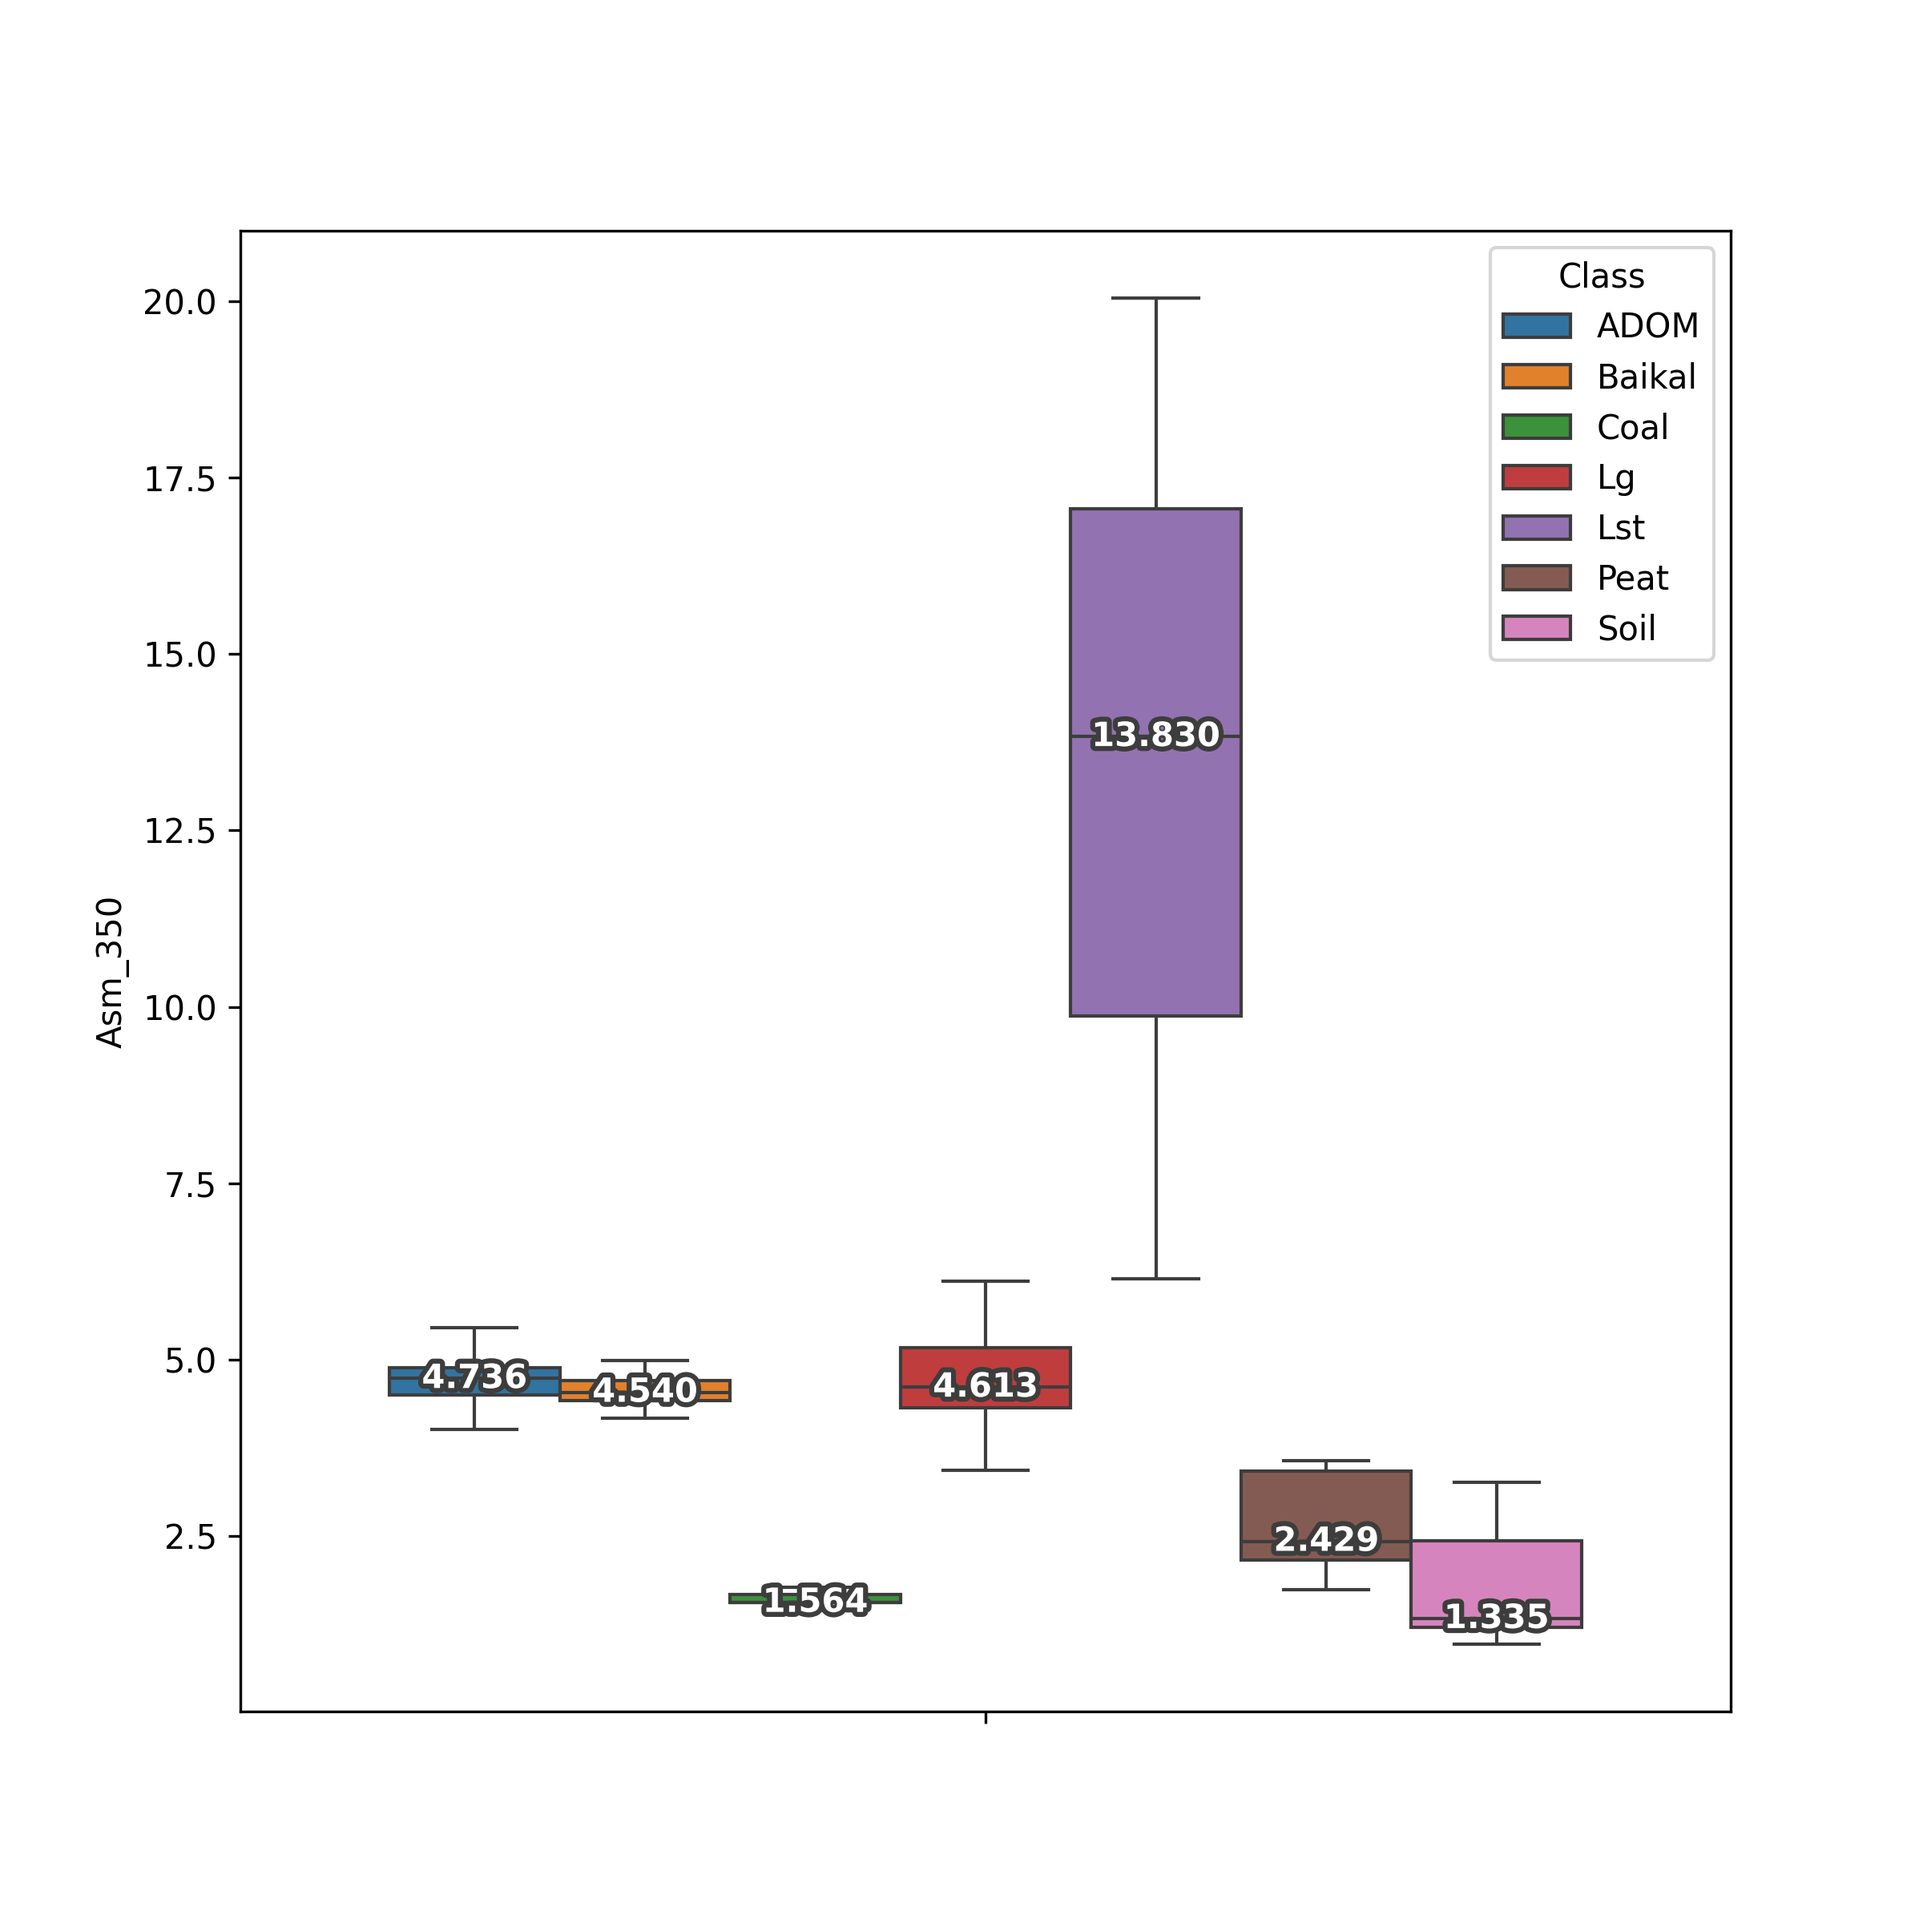
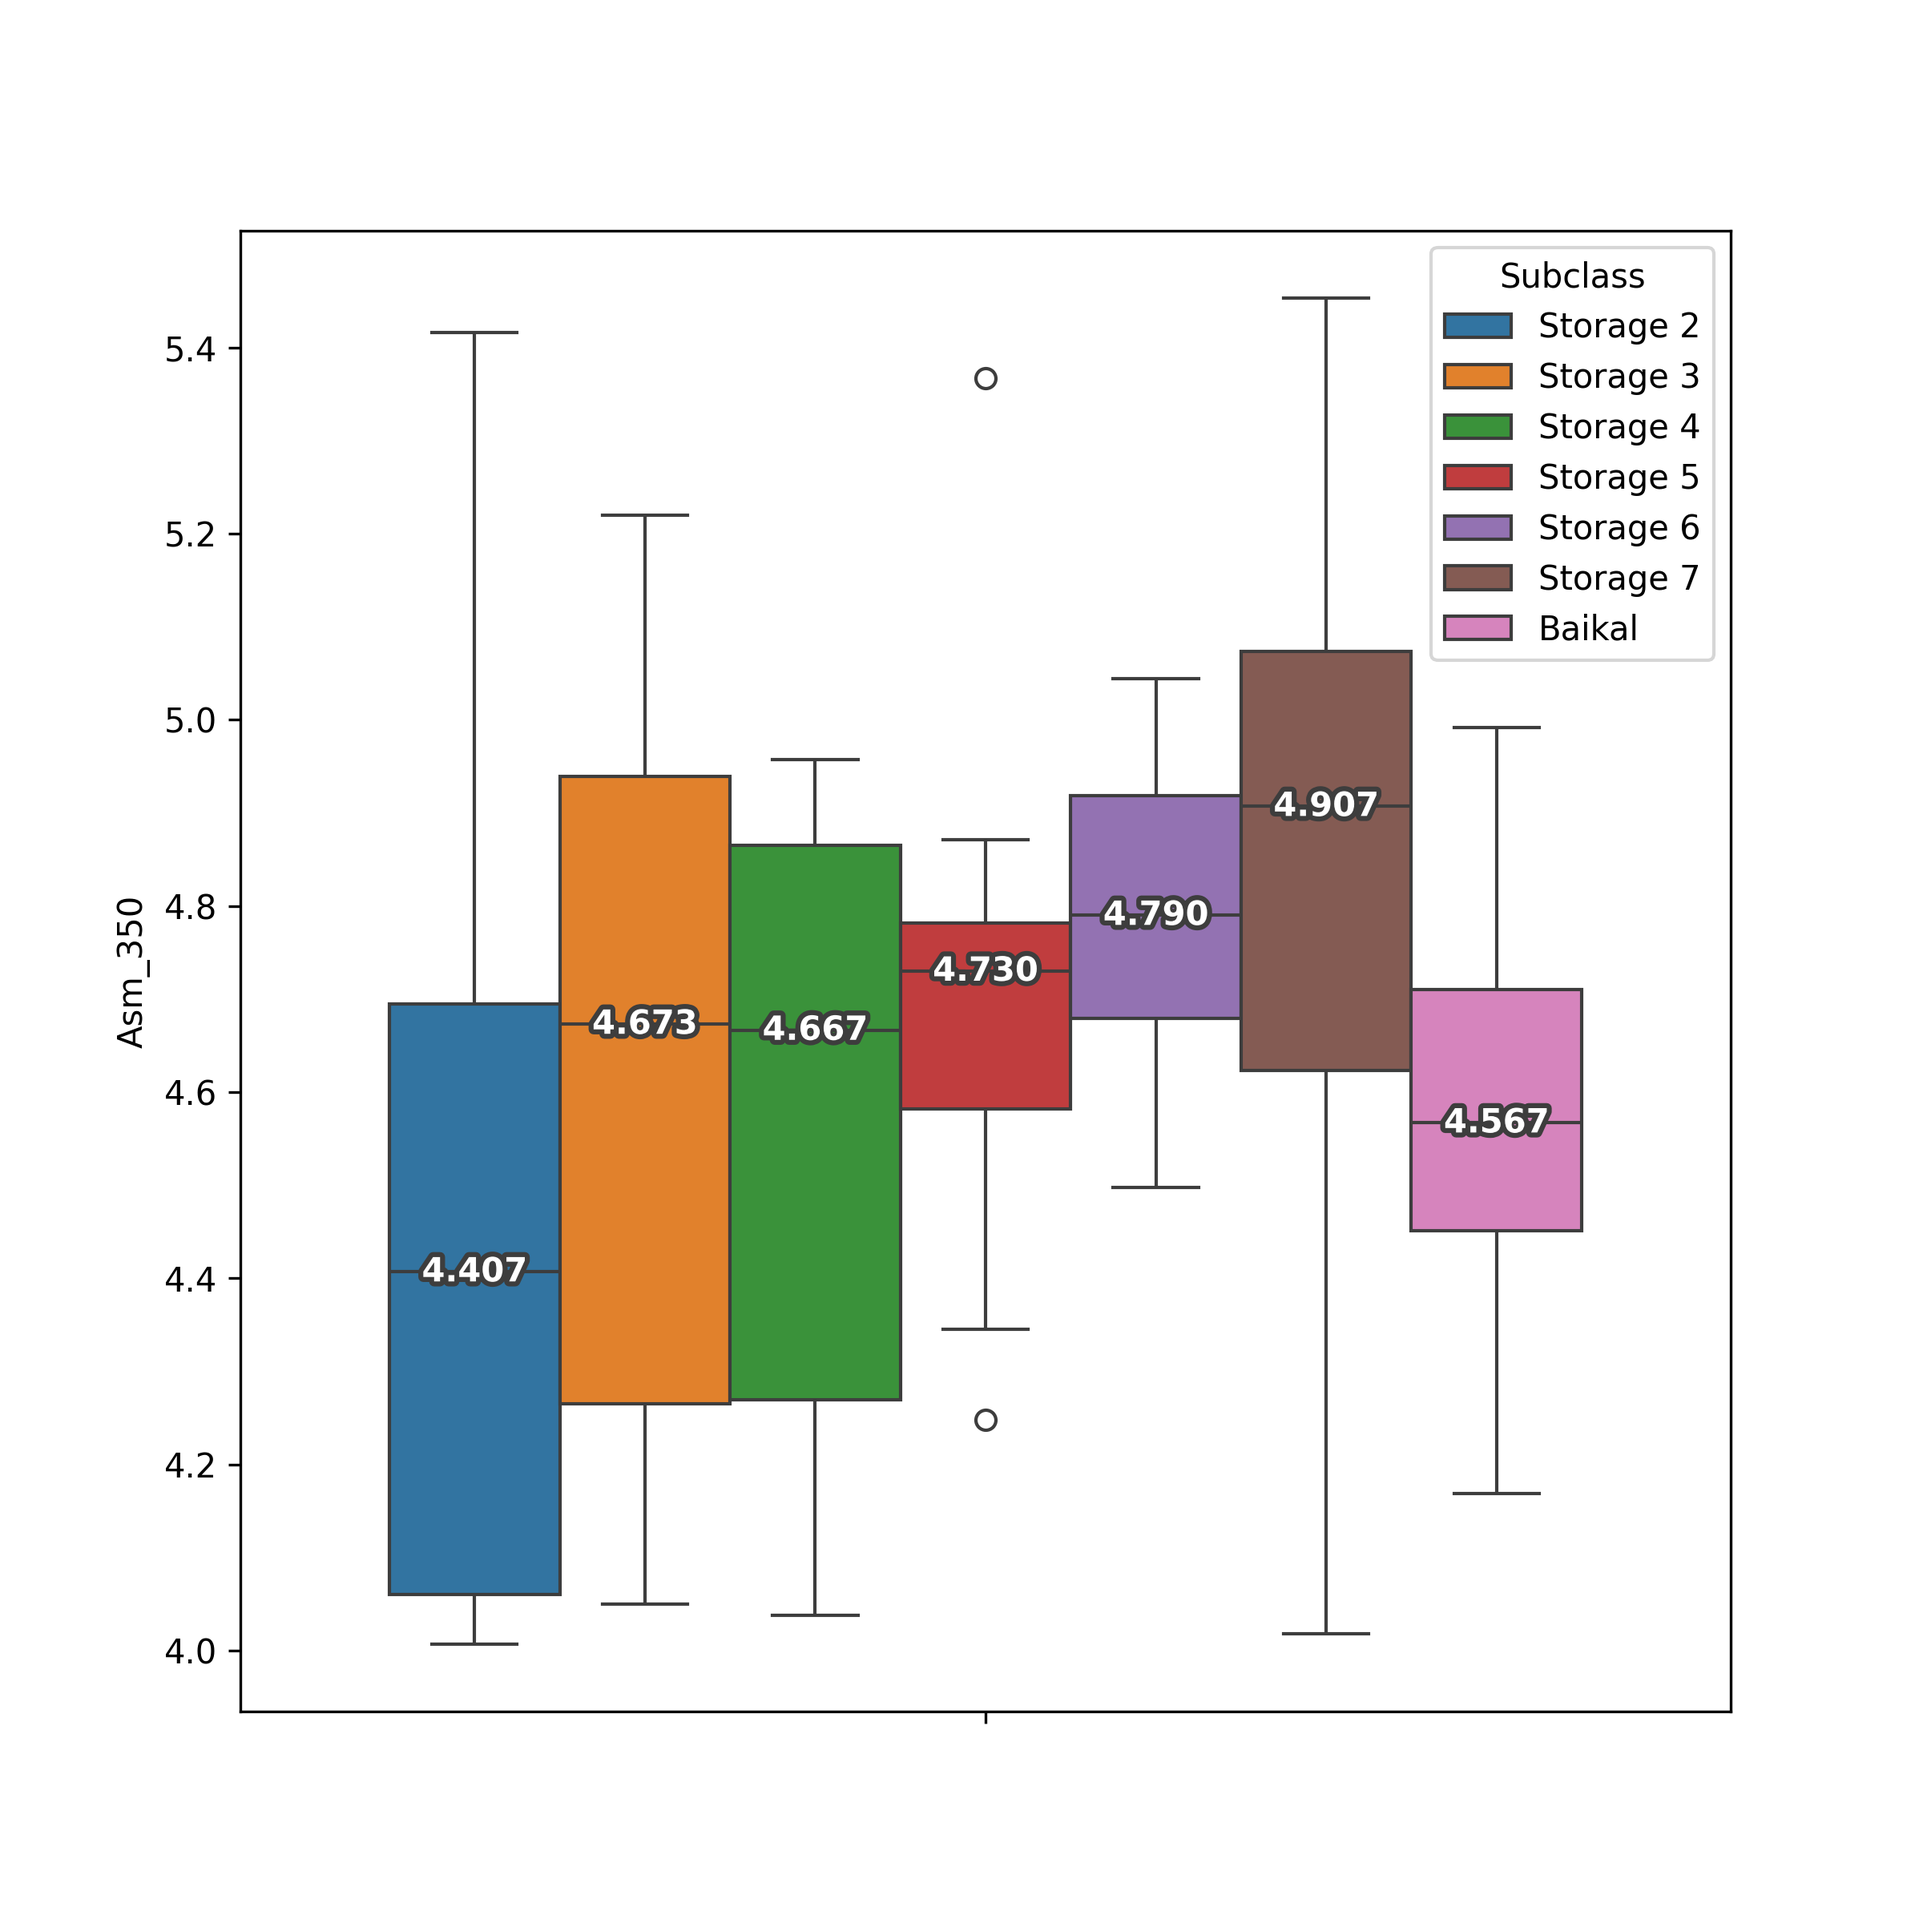
add 1d plot function

diff --git a/Data_processing/Production/plot_spectra.py b/Data_processing/Production/plot_spectra.py
@@ -132,10 +132,33 @@ for i, folder in enumerate(date_folder_list):
     uv_toc_spectra = add_toc_to_spectra(uv_abs_spectra,carbon_data)
     
     uv_class_spectra = split_dataframes_by_class(uv_toc_spectra,type='class')
+    fluo_subclass_spectra = split_dataframes_by_class(fluo_spectra,type= 'class')
     
     if i == 1:
         uv_refl_spectra = ut.load_spectra_data(uv_path, uv.read_csv_uv, spectra_type="reflection")
-
+    fig,ax = plt.subplots(1,1,figsize=(7,7),dpi=300)
+    for fluo_subclass in fluo_subclass_spectra: 
+        random_element = random.sample(fluo_subclass, 1)[0]
+        if random_element.attrs['subclass'] in ['Lg','Lst','SHA','SFA','SHF','PFA','PHF','PHA','CHF','CHA']:
+        
+            fl_spectra = fl.cut_spectra(random_element,255,450,255,600)
+            fl_spectra = ut.normilize_by_max(fl_spectra)
+            fl_spectra_280 = fl.cut_raman_spline(em_wvs=fl_spectra.index.to_numpy(),fl=fl_spectra[280].to_numpy(),exc_wv=280)
+            ax.plot(fl_spectra.index.to_numpy(),fl_spectra_280,label=random_element.attrs['name'])
+            
+            ax.set_title('Спектр флуоресценции при 280 нм длины волны возбуждения')
+            ax.set_ylabel('Интенсивность')
+            ax.set_xlabel('Длина волны испускания, нм')
+            ax.set_ylim((0.0,1.1))
+        else:
+            continue
+    plt.legend()
+    plt.tight_layout()
+    plt.savefig(
+                Path.joinpath(SPECTRA_PATH,f"{date_list[i]}","Fluorescence","280_nm",f"Карты+байкал")
+                        )
+    plt.close()
+    
     if FluoPlotEnable:
     
         for fl_spectra in fluo_spectra:
@@ -149,23 +172,27 @@ for i, folder in enumerate(date_folder_list):
                         )
             plt.close()
         
+    fig,ax = plt.subplots(1,1,figsize=(7,7),dpi=300) 
     for uv_class_list in uv_class_spectra:
         
-        random_elements = random.sample(uv_class_list, 4)
-        fig,ax = plt.subplots(1,1,figsize=(7,7),dpi=300)     
-        for uv_spectra in random_elements:
+        random_elements = random.sample(uv_class_list, 1)
+        if random_elements[0].attrs['class'] in ['ADOM','Baikal']:
             
-            uv_spectra = uv_spectra.iloc[20:]
-            
-            uv.plot_uv(uv_spectra,norm_by_TOC=True,name=uv_spectra.attrs['name'],ax=ax,title=False)
-            ax.set_title(uv_spectra.attrs['class'])
-            ax.set_xlabel('Длина волны, нм')
-        plt.legend()    
-        plt.tight_layout()  
-        plt.savefig(
-                Path.joinpath(SPECTRA_PATH,f"{date_list[i]}","UV","Absorption","Grouped_spectra",f"{uv_spectra.attrs['class']}") # type: ignore
+            continue
+        else:
+            for uv_spectra in random_elements:
+                
+                uv_spectra = uv_spectra.iloc[20:]
+                
+                uv.plot_uv(uv_spectra,norm_by_TOC=True,name=uv_spectra.attrs['name'],ax=ax,title=False)
+                ax.set_title('Нормированный спектр поглощения')
+                ax.set_xlabel('Длина волны, нм')
+    plt.legend()    
+    plt.tight_layout()  
+    plt.savefig(
+                Path.joinpath(SPECTRA_PATH,f"{date_list[i]}","UV","Absorption","Grouped_spectra",f"Нормированный спектр поглощения_2") # type: ignore
                         )
-        plt.close()
+    plt.close()
     
     if UVPlotEnable:
              

diff --git a/Data_processing/Production/statistic.py b/Data_processing/Production/statistic.py
@@ -20,7 +20,7 @@ date_list = ["2024","2025"]
 date_folder_list = [INIT_DATA_2024,INIT_DATA_2025]
 
 PairPlotEnable = False
-BoxPlotEnable = False
+BoxPlotEnable = True
 KdePlotEnable = False
 HistPlotEnable = False
 ImPlotEnable = False
@@ -297,13 +297,14 @@ for i, folder in enumerate(date_folder_list):
                                     'Documents',f'Исходные данные за {date_list[i]} год.xlsx'))
     
     MainData = ut.filter_by_iqr_per_group(MainData.reset_index(),'Class',iqr_param=1.5,
-                                          filter_columns=['Asm_350',])
-    MainData.set_index(["Class","Subclass","Sample"],inplace=True)
+                                          filter_columns=['Asm_350','Suva','E2E3','C_org'])
+    #MainData.set_index(["Class","Subclass","Sample"],inplace=True)
     MainData.to_excel(Path.joinpath(STAT_PATH,f'{date_list[i]}',
                                     'Documents',f'Исходные данные без выбросов за {date_list[i]} год.xlsx'))
+    """
     MainData.groupby(level=[0,1]).describe().T.to_excel(Path.joinpath(STAT_PATH,f'{date_list[i]}',
                                     'Documents',f'Статистика без выбросов за {date_list[i]} год.xlsx'))
-    
+    """
     if np.shape(np.unique(MainData.reset_index().Class)) == 1:
     
         first_type = 'Subclass'
@@ -329,12 +330,12 @@ for i, folder in enumerate(date_folder_list):
     
         for feature in numeric_cols:
             
-            
+            MainData = MainData[MainData['Subclass'].isin(['Storage 2','Storage 3','Storage 4','Storage 5','Storage 6','Storage 7','Baikal'])]
             
             fig, axes = plt.subplots(1,1,figsize=(8,8),dpi=300)
             MainData = MainData[MainData['Suva']<16]
-            box = sns.boxplot(data = MainData.reset_index(),
-                              hue='Class', y=feature, ax=axes)
+            box = sns.boxplot(data = MainData,
+                              hue='Subclass', y=feature, ax=axes)
             ut.add_median_labels(box)
             
             plt.savefig(
